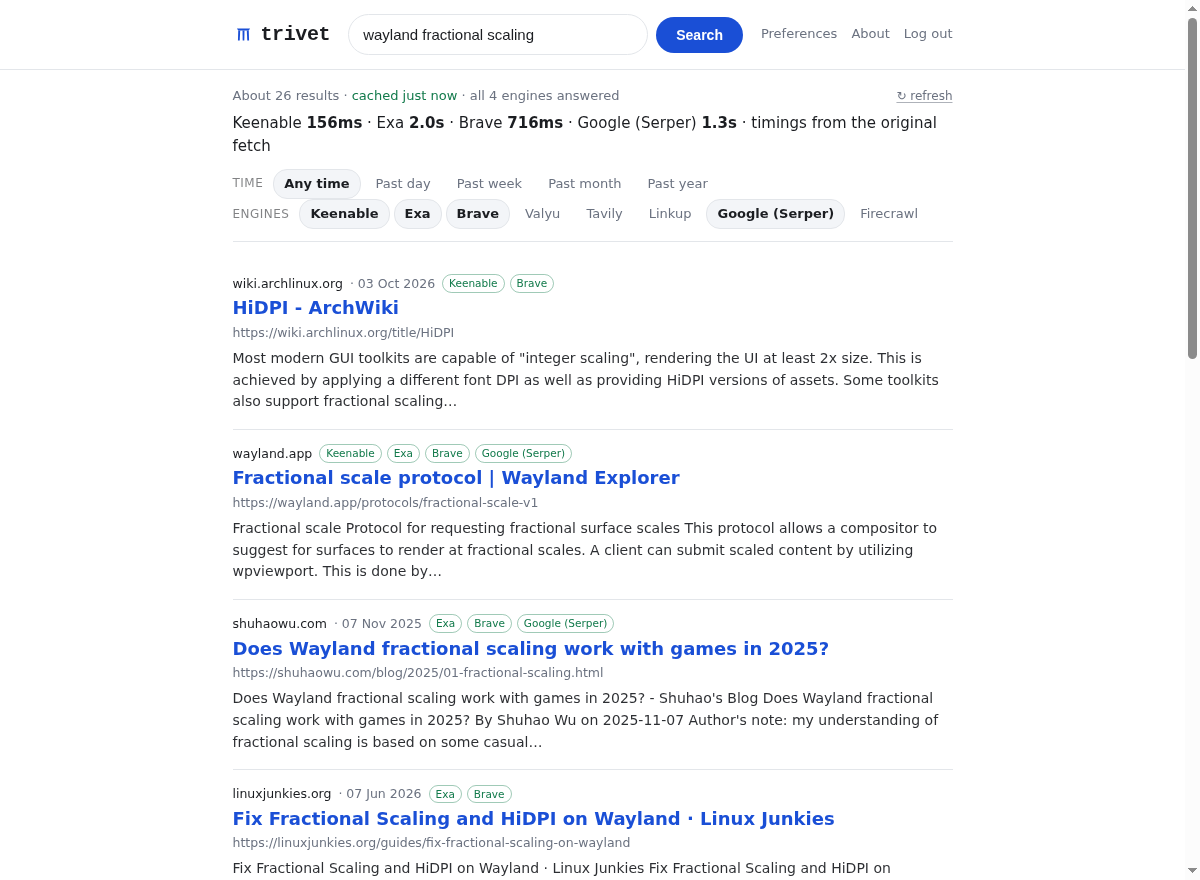
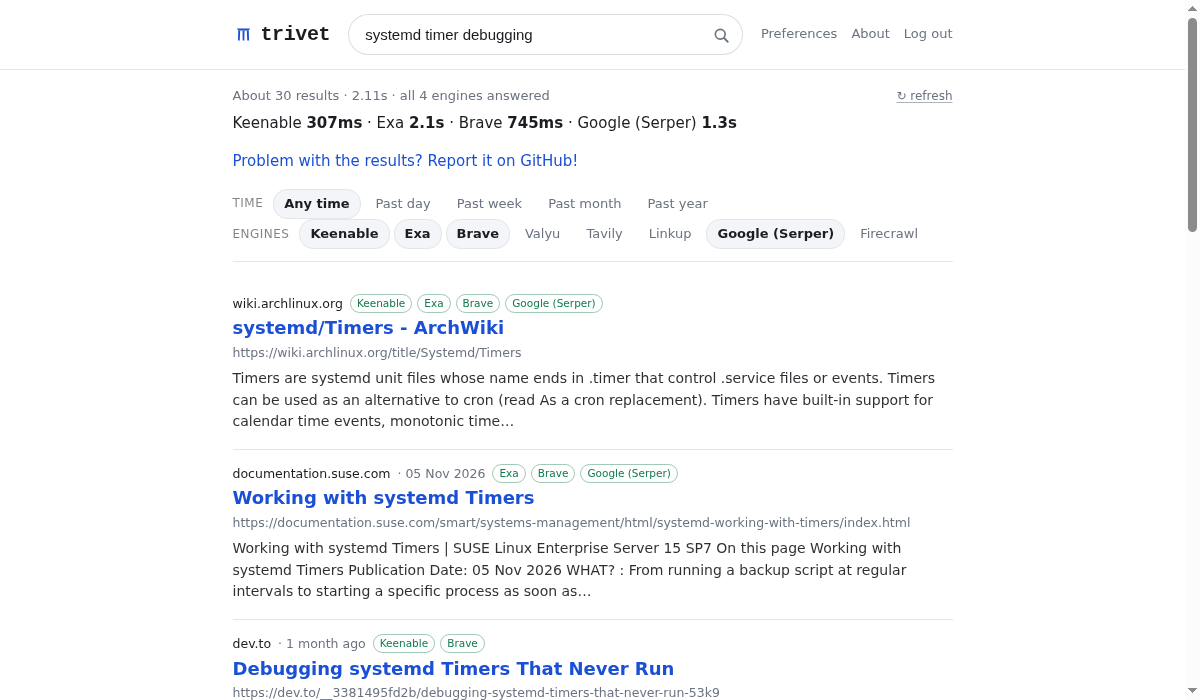
home: quieter search field and engine pills
The search box gets a subtle outline and the magnifier lives inside it as the
submit affordance, instead of a filled button beside it. The submit stays a real
button so Enter and keyboard users work with JS off.

Below it, each enabled engine is a pill with a stable hue per engine, and the
count text plus 'more available' link collapse into a small + circle pointing at
Preferences. The login form keeps its labelled button.

diff --git a/render.py b/render.py
@@ -45,21 +45,22 @@ a{color:var(--link);text-decoration:none}
 a:hover{text-decoration:underline}
 a:visited{color:var(--visited)}
 .wrap{max-width:760px;margin:0 auto;padding:0 20px}
-form.search{display:flex;gap:8px;align-items:center}
-form.search input[type=search]{flex:1;background:var(--field);border:1px solid var(--line);
-  color:var(--fg);padding:11px 14px;border-radius:24px;font-size:15px;outline:none;min-width:0}
+form.search{display:flex;align-items:center}
+form.search .sb{position:relative;display:flex;align-items:center;flex:1;min-width:0}
+form.search input[type=search]{flex:1;background:var(--field);
+  border:1px solid color-mix(in srgb,var(--fg) 15%,transparent);
+  color:var(--fg);padding:11px 44px 11px 16px;border-radius:24px;font-size:15px;
+  outline:none;min-width:0;transition:border-color .12s,box-shadow .12s}
 form.search input[type=search]:focus{border-color:var(--accent);
-  box-shadow:0 0 0 3px color-mix(in srgb,var(--accent) 18%,transparent)}
-form.search button{background:var(--accent);color:#fff;border:0;border-radius:24px;
-  padding:10px 20px;font-size:14px;font-weight:600;cursor:pointer;
-  display:inline-flex;align-items:center;justify-content:center;gap:6px}
-form.search .btn-icon{display:none;width:19px;height:19px}
-/* dark ink only when the accent is the light dark-mode blue; the default light
-   theme has a deep blue accent and needs white text */
-html[data-theme="dark"] form.search button,
+  box-shadow:0 0 0 3px color-mix(in srgb,var(--accent) 14%,transparent)}
+form.search button{position:absolute;right:5px;width:34px;height:34px;padding:0;
+  display:inline-flex;align-items:center;justify-content:center;
+  background:transparent;border:0;border-radius:50%;color:var(--muted);cursor:pointer}
+form.search button:hover,form.search button:focus-visible{color:var(--accent);
+  background:color-mix(in srgb,var(--accent) 10%,transparent);outline:none}
+form.search .btn-icon{width:18px;height:18px}
 html[data-theme="dark"] .prefs button{color:#0b0d10}
 @media (prefers-color-scheme:dark){
-  html:not([data-theme="light"]) form.search button,
   html:not([data-theme="light"]) .prefs button{color:#0b0d10}
 }
 .brand{font-size:20px;font-weight:600;letter-spacing:-.02em;color:var(--fg);display:inline-flex;align-items:center;gap:7px;
@@ -77,10 +78,22 @@ header.top .nav a{color:var(--muted)}
 .home .brand{font-size:38px;display:block;margin-bottom:6px}
 .home .tag{color:var(--muted);font-size:14px;margin-bottom:26px}
 .home form.search{max-width:560px;margin:0 auto}
-.home .engines{margin-top:26px;font-size:13px;color:var(--muted);line-height:1.9;
-  display:block;text-align:center}
-.home .engines a{color:var(--muted);text-decoration:underline;text-decoration-color:var(--line)}
-.home .engines b{color:var(--fg);font-weight:600}
+.home .engines{margin-top:26px;display:flex;gap:7px;flex-wrap:wrap;
+  align-items:center;justify-content:center}
+.pill{display:inline-flex;align-items:center;height:22px;padding:0 9px;border-radius:99px;
+  font-size:11.5px;font-weight:600;letter-spacing:.01em;white-space:nowrap;
+  color:hsl(var(--h) 62% 34%);background:hsl(var(--h) 68% 50% / .13);
+  border:1px solid hsl(var(--h) 55% 50% / .22)}
+.more{display:inline-flex;align-items:center;justify-content:center;
+  width:22px;height:22px;border-radius:50%;border:1px solid var(--line);
+  color:var(--muted);font-size:13px;line-height:1;text-decoration:none;flex:0 0 auto}
+.more:hover{border-color:var(--accent);color:var(--accent);text-decoration:none}
+@media (prefers-color-scheme:dark){
+  html:not([data-theme="light"]) .pill{color:hsl(var(--h) 78% 74%);
+    background:hsl(var(--h) 60% 60% / .16);border-color:hsl(var(--h) 60% 60% / .28)}
+}
+html[data-theme="dark"] .pill{color:hsl(var(--h) 78% 74%);
+  background:hsl(var(--h) 60% 60% / .16);border-color:hsl(var(--h) 60% 60% / .28)}
 .meta{display:flex;justify-content:space-between;gap:12px;color:var(--muted);
   font-size:13px;margin:16px 0 6px;flex-wrap:wrap}
 /* only the phrases inside the count line are unbreakable; the count line itself
@@ -149,14 +162,8 @@ footer a{color:var(--muted)}
   header.top .nav a{padding:6px 0}
   header.top form.search{order:3;flex:1 1 100%;width:100%}
   form.search input[type=search]{flex:1 1 100%;min-width:0;font-size:16px;
-    padding:11px 14px;border-radius:22px}
-  /* icon-only submit is for the header, where the query needs the width.
-     The login form reuses .search and must keep its label. */
-  header.top form.search button{flex:0 0 auto;width:46px;height:44px;padding:0;
-    border-radius:22px}
-  header.top form.search .btn-icon{display:block}
-  header.top form.search .btn-text{position:absolute;width:1px;height:1px;overflow:hidden;
-    clip-path:inset(50%);white-space:nowrap}
+    padding:11px 44px 11px 16px;border-radius:22px}
+  header.top form.search button{width:38px;height:38px}
   .meta{margin:12px 0 4px;font-size:12.5px;gap:4px}
   /* filters become two swipeable strips instead of four wrapped rows; chips keep
      a 36px touch height while the row stays one line tall */
@@ -263,29 +270,48 @@ addEventListener('keydown',e=>{{
 </script></body></html>"""
 
 
+# One hue per engine so the same name is always the same colour, in every theme.
+ENGINE_HUES = {
+    "keenable": 212, "exa": 268, "brave": 24, "tavily": 158,
+    "serper": 44, "linkup": 190, "firecrawl": 12, "valyu": 296,
+    "parallel": 232,
+}
+
+
+def _engine_pill(spec: Spec) -> str:
+    hue = ENGINE_HUES.get(spec.name, 215)
+    return (f'<span class="pill" style="--h:{hue}" title="{escape(spec.blurb)}">'
+            f'{escape(spec.label)}</span>')
+
+
 def _search_form(q: str) -> str:
+    # The submit stays a real button so Enter and keyboard users work with JS off;
+    # it is just drawn inside the field as a magnifier.
     return f"""<form class="search" action="/search" method="get" role="search">
-  <input type="search" name="q" value="{escape(q)}" placeholder="Search, or !bang a site"
-         autocomplete="off" spellcheck="false" aria-label="Search query">
-  <button type="submit" aria-label="Search">
-    <svg class="btn-icon" viewBox="0 0 24 24" aria-hidden="true"><circle cx="11" cy="11" r="6.5"
-      fill="none" stroke="currentColor" stroke-width="2.2"/><line x1="16" y1="16" x2="21" y2="21"
-      stroke="currentColor" stroke-width="2.4" stroke-linecap="round"/></svg>
-    <span class="btn-text">Search</span>
-  </button>
+  <div class="sb">
+    <input type="search" name="q" value="{escape(q)}" placeholder="Search, or !bang a site"
+           autocomplete="off" spellcheck="false" aria-label="Search query">
+    <button type="submit" aria-label="Search">
+      <svg class="btn-icon" viewBox="0 0 24 24" aria-hidden="true"><circle cx="11" cy="11" r="6.5"
+        fill="none" stroke="currentColor" stroke-width="2.2"/><line x1="16" y1="16" x2="21" y2="21"
+        stroke="currentColor" stroke-width="2.4" stroke-linecap="round"/></svg>
+    </button>
+  </div>
 </form>"""
 
 
 def home(enabled: list[Spec], configured: list[Spec], theme: str = "") -> str:
-    names = " · ".join(escape(s.label) for s in enabled)
     off = len(configured) - len(enabled)
-    more = (f' · <a href="/preferences">{off} more available</a>' if off > 0 else "")
+    pills = " ".join(_engine_pill(s) for s in enabled)
+    more = (f'<a class="more" href="/preferences" title="{off} more available"'
+            f' aria-label="{off} more engines available">+</a>' if off > 0 else "")
+    engines_block = (f'<span class="pills">{pills}</span>{more}' if enabled else
+                     '<a href="/settings/keys">No engines yet. Add an API key</a>')
     body = f"""<div class="wrap"><div class="home">
   <a class="brand" href="/"><svg class="mk" viewBox="0 0 512 512" aria-hidden="true"><path d="M96 112H416L384 160H128Z"/><path d="M128 160H176L164 400H120Z"/><path d="M232 160H280L276 400H236Z"/><path d="M336 160H384L392 400H348Z"/></svg>trivet</a>
   <div class="tag">A search engine over agentic indexes.</div>
   {_search_form("")}
-  <div class="engines">{f'<b>{len(enabled)} engine{"" if len(enabled) == 1 else "s"}</b> · {names}{more}'
-    if enabled else '<b>No engines yet.</b> <a href="/settings/keys">Add an API key</a> to start searching.'}</div>
+  <div class="engines">{engines_block}</div>
   <footer style="justify-content:center;border:0;margin-top:26px">
     <a href="/preferences">Preferences</a><a href="/stats">Engine stats</a>
     <a href="/about">About</a>
@@ -496,17 +522,29 @@ def login(next_path: str = "/", error: str = "") -> str:
   <div class="tag">Sign in to search.</div>
   <form class="search login" method="post" action="/login" style="max-width:420px;margin:0 auto">
     <input type="hidden" name="next" value="{escape(next_path)}">
-    <input type="password" name="password" placeholder="Password" autofocus
-           autocomplete="current-password" aria-label="Password" required>
-    <button type="submit">Sign in</button>
+    <div class="sb">
+      <input type="password" name="password" placeholder="Password" autofocus
+             autocomplete="current-password" aria-label="Password" required>
+    </div>
+    <button type="submit" class="solid">Sign in</button>
   </form>
   {err}
   <p class="hint">Stays signed in on this browser for 90 days.</p>
 </div></div>"""
     extra = """
-.login input{background:var(--field);border:1px solid var(--line);color:var(--fg);
-  padding:11px 14px;border-radius:24px;font-size:16px;flex:1;min-width:0}
-.login button{flex:0 0 auto;white-space:nowrap;padding:11px 20px;border-radius:24px}
+.login .sb{flex:1}
+.login input{background:var(--field);border:1px solid color-mix(in srgb,var(--fg) 15%,transparent);
+  color:var(--fg);padding:11px 16px;border-radius:24px;font-size:16px;min-width:0;outline:none}
+.login input:focus{border-color:var(--accent);
+  box-shadow:0 0 0 3px color-mix(in srgb,var(--accent) 14%,transparent)}
+.login button.solid{position:static;width:auto;height:auto;flex:0 0 auto;white-space:nowrap;
+  padding:11px 20px;border-radius:24px;background:var(--accent);color:#fff;
+  font-size:14px;font-weight:600;display:inline-flex;align-items:center;justify-content:center}
+.login button.solid:hover{background:var(--accent);color:#fff;opacity:.92}
+html[data-theme="dark"] .login button.solid{color:#0b0d10}
+@media (prefers-color-scheme:dark){
+  html:not([data-theme="light"]) .login button.solid{color:#0b0d10}
+}
 .home .err{color:var(--danger);font-size:13px;margin-top:14px}
 .home .hint{color:var(--muted);font-size:12px;margin-top:22px}
 """

diff --git a/_version.py b/_version.py
@@ -1,2 +1,2 @@
 """Single source of truth for the version string."""
-__version__ = "0.1.2"
+__version__ = "0.1.3"
